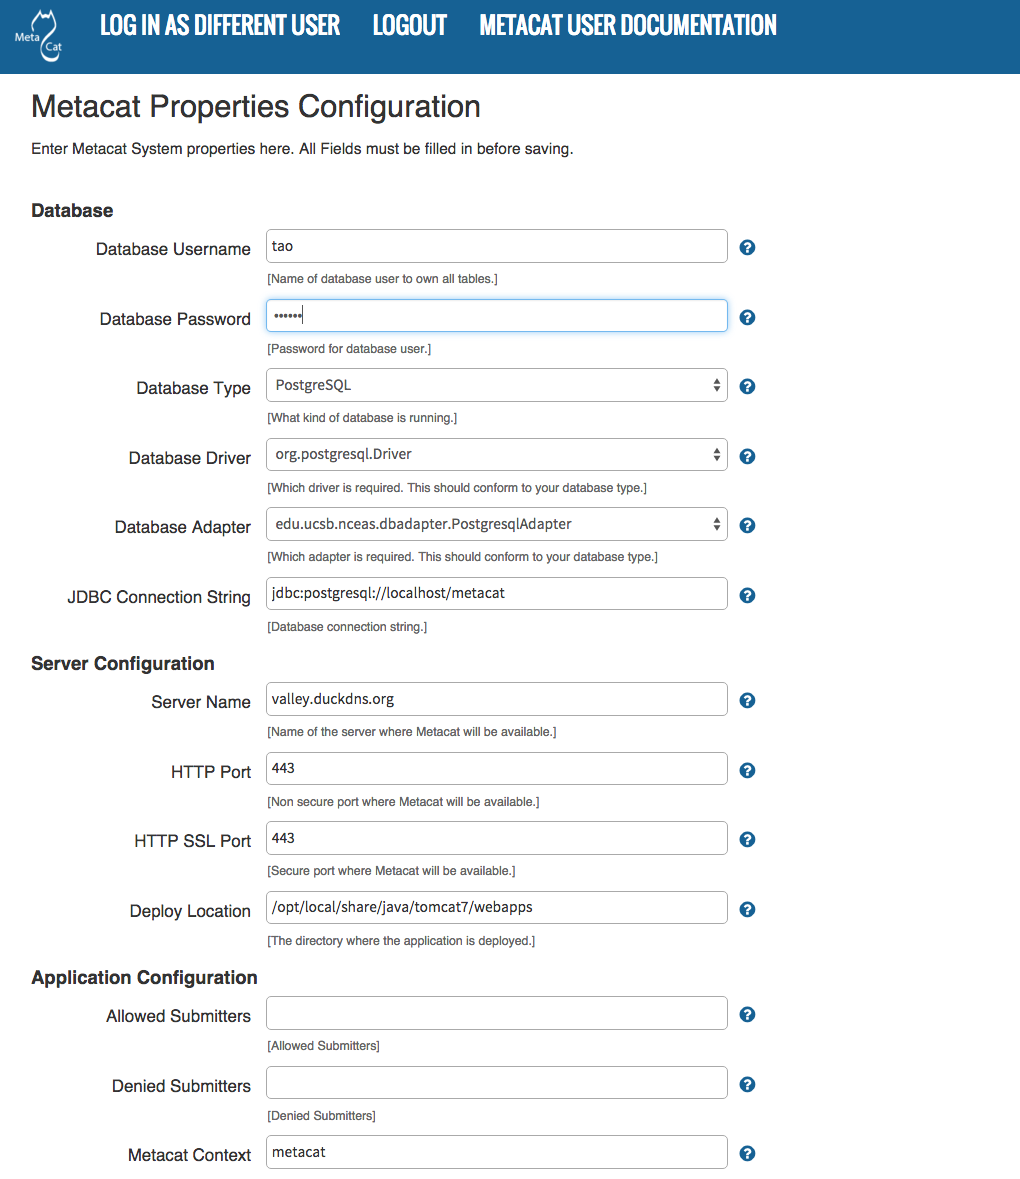
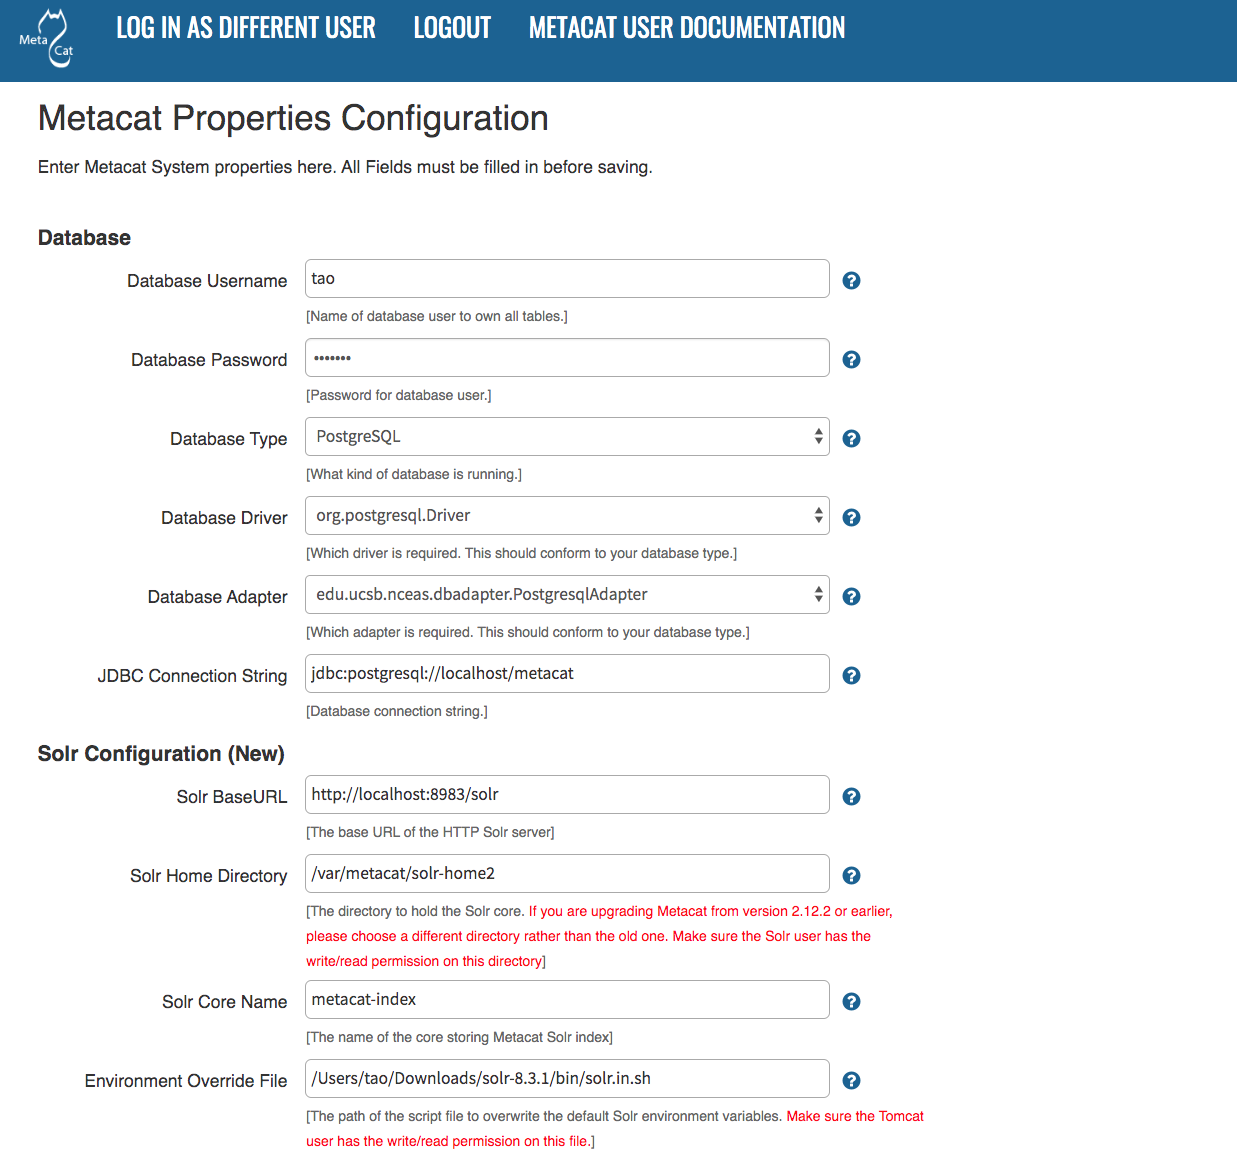
Add the solr server configuration part.

diff --git a/docs/user/metacat/source/configuration.rst b/docs/user/metacat/source/configuration.rst
@@ -1,3 +1,5 @@
+.. _Tomcat And Solr User Management: ./install.html#tomcat-and-solr-user-management
+
 Configuring Metacat
 ===================
 
@@ -247,6 +249,14 @@ HTTP SSL Port     The secure port where Metacat will be available.
 Deploy Location   The directory where the application is deployed. 
 ================  ============================================================
 
+.. Note:: 
+
+  The Solr Home directory you choose should be writable/readable by the user solr.
+  
+  The Environment Overwrites File should be writable/readable by the user tomcat8.
+  
+  The section of `Tomcat And Solr User Management`_ on the installation page will resolve this issue.
+
 Authentication Configuration
 ~~~~~~~~~~~~~~~~~~~~~~~~~~~~
 Because you must specify the Authentication settings before you can access the 
@@ -356,10 +366,39 @@ scripts and updates the database schema.
 Additional upgrade tasks may also run after the database upgrade is complete.
 For systems hosting large amounts of data, these upgrade routines can take time to complete.
 It is important to let the process complete before using Metacat otherwise your deployment may become unstable.
-   
 
-Geoserver Configuration (Highly Recommended)
-~~~~~~~~~~~~~~~~~~~~~~~~~~~~~~~~~~~~~~~~~~~~
+
+Solr Server Configuration
+~~~~~~~~~~~~~~~~~~~~~~~~~
+Because the Solr Server Configuration is dependent on values specified in the 
+Global Properties section, the link to these settings does not become active 
+until after the global settings have been saved. Once the global settings have 
+been saved, Metacat automatically detects the status of the Solr Core and creates 
+or upgrades it if necessary (and with your permission). 
+
+
+.. figure:: images/screenshots/image073.png
+   :align: center
+
+.. Note:: 
+
+  Solr server should be running when you configure Metacat.
+   
+Troubleshooting
+...............
+If you click the Solr Configuration button and get the error message like 
+``Server refused connection at: http://localhost:8983/solr``, this means the 
+Solr server is not running and you need to start it.
+
+If you click the Create button to create the Solr core and get the error message 
+like ``Couldn't persist core properties to /var/metacat/solr-home2/``, this means 
+the user solr doesn't have the write permission on the Solr Home directory. You need
+to add the user solr to the group tomcat, restart Solr Server and Tomcat, log in again
+and continue to configure Metacat. The instruction of adding users to groups can be found on the
+`Tomcat And Solr User Management`_ part of the installation page.
+
+Geoserver Configuration
+~~~~~~~~~~~~~~~~~~~~~~~
 .. sidebar:: Manual Geoserver Update
 
   Alternatively, you can change the Geoserver username and password manually by 
